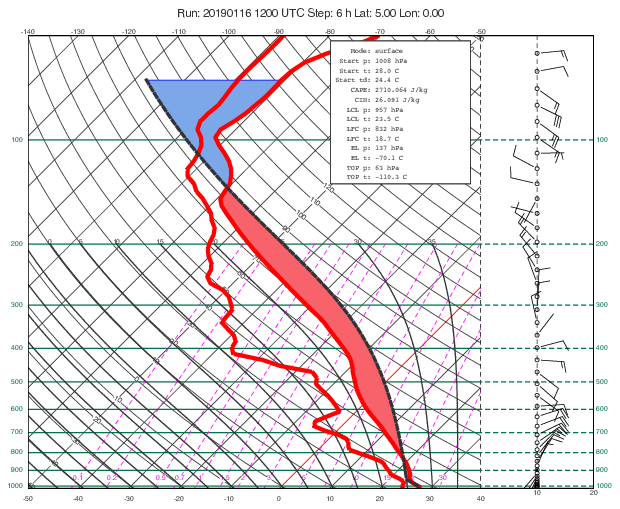
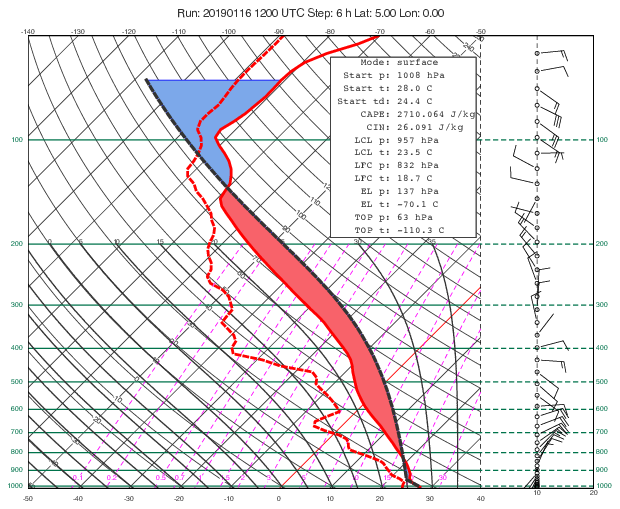
Update gallery example for parcel method on skew-t

diff --git a/docs/gallery/parcel_path_skewt_grib.py b/docs/gallery/parcel_path_skewt_grib.py
@@ -33,8 +33,10 @@ parcel_area = mv.thermo_parcel_area(parcel)
 # create plot object for parcel path
 parcel_vis = mv.xy_curve(parcel["t"], parcel["p"], "charcoal", "dash", 6)
 
-# use default visual definition for t and td profile
-prof_vis = mv.mthermo()
+# define t and td profile style
+prof_vis = mv.mthermo(
+    thermo_temperature_line_thickness=5, thermo_dewpoint_line_thickness=5
+)
 
 # define the thermodynamic view
 view = mv.thermoview(
@@ -84,14 +86,14 @@ if parcel.top != None:
 info_box = mv.mtext(
     text_lines=txt,
     text_font="courier",
-    text_font_size=0.3,
+    text_font_size=0.4,
     text_colour="charcoal",
     text_justification="left",
     text_mode="positional",
     text_box_x_position=14.8,
-    text_box_y_position=13.4,
-    text_box_x_length=5.2,
-    text_box_y_length=len(txt) * 0.35 + 0.4,
+    text_box_y_position=11.4,
+    text_box_x_length=5.4,
+    text_box_y_length=len(txt) * 0.45 + 0.4,
     text_box_blanking="on",
     text_border="on",
     text_border_colour="charcoal",
